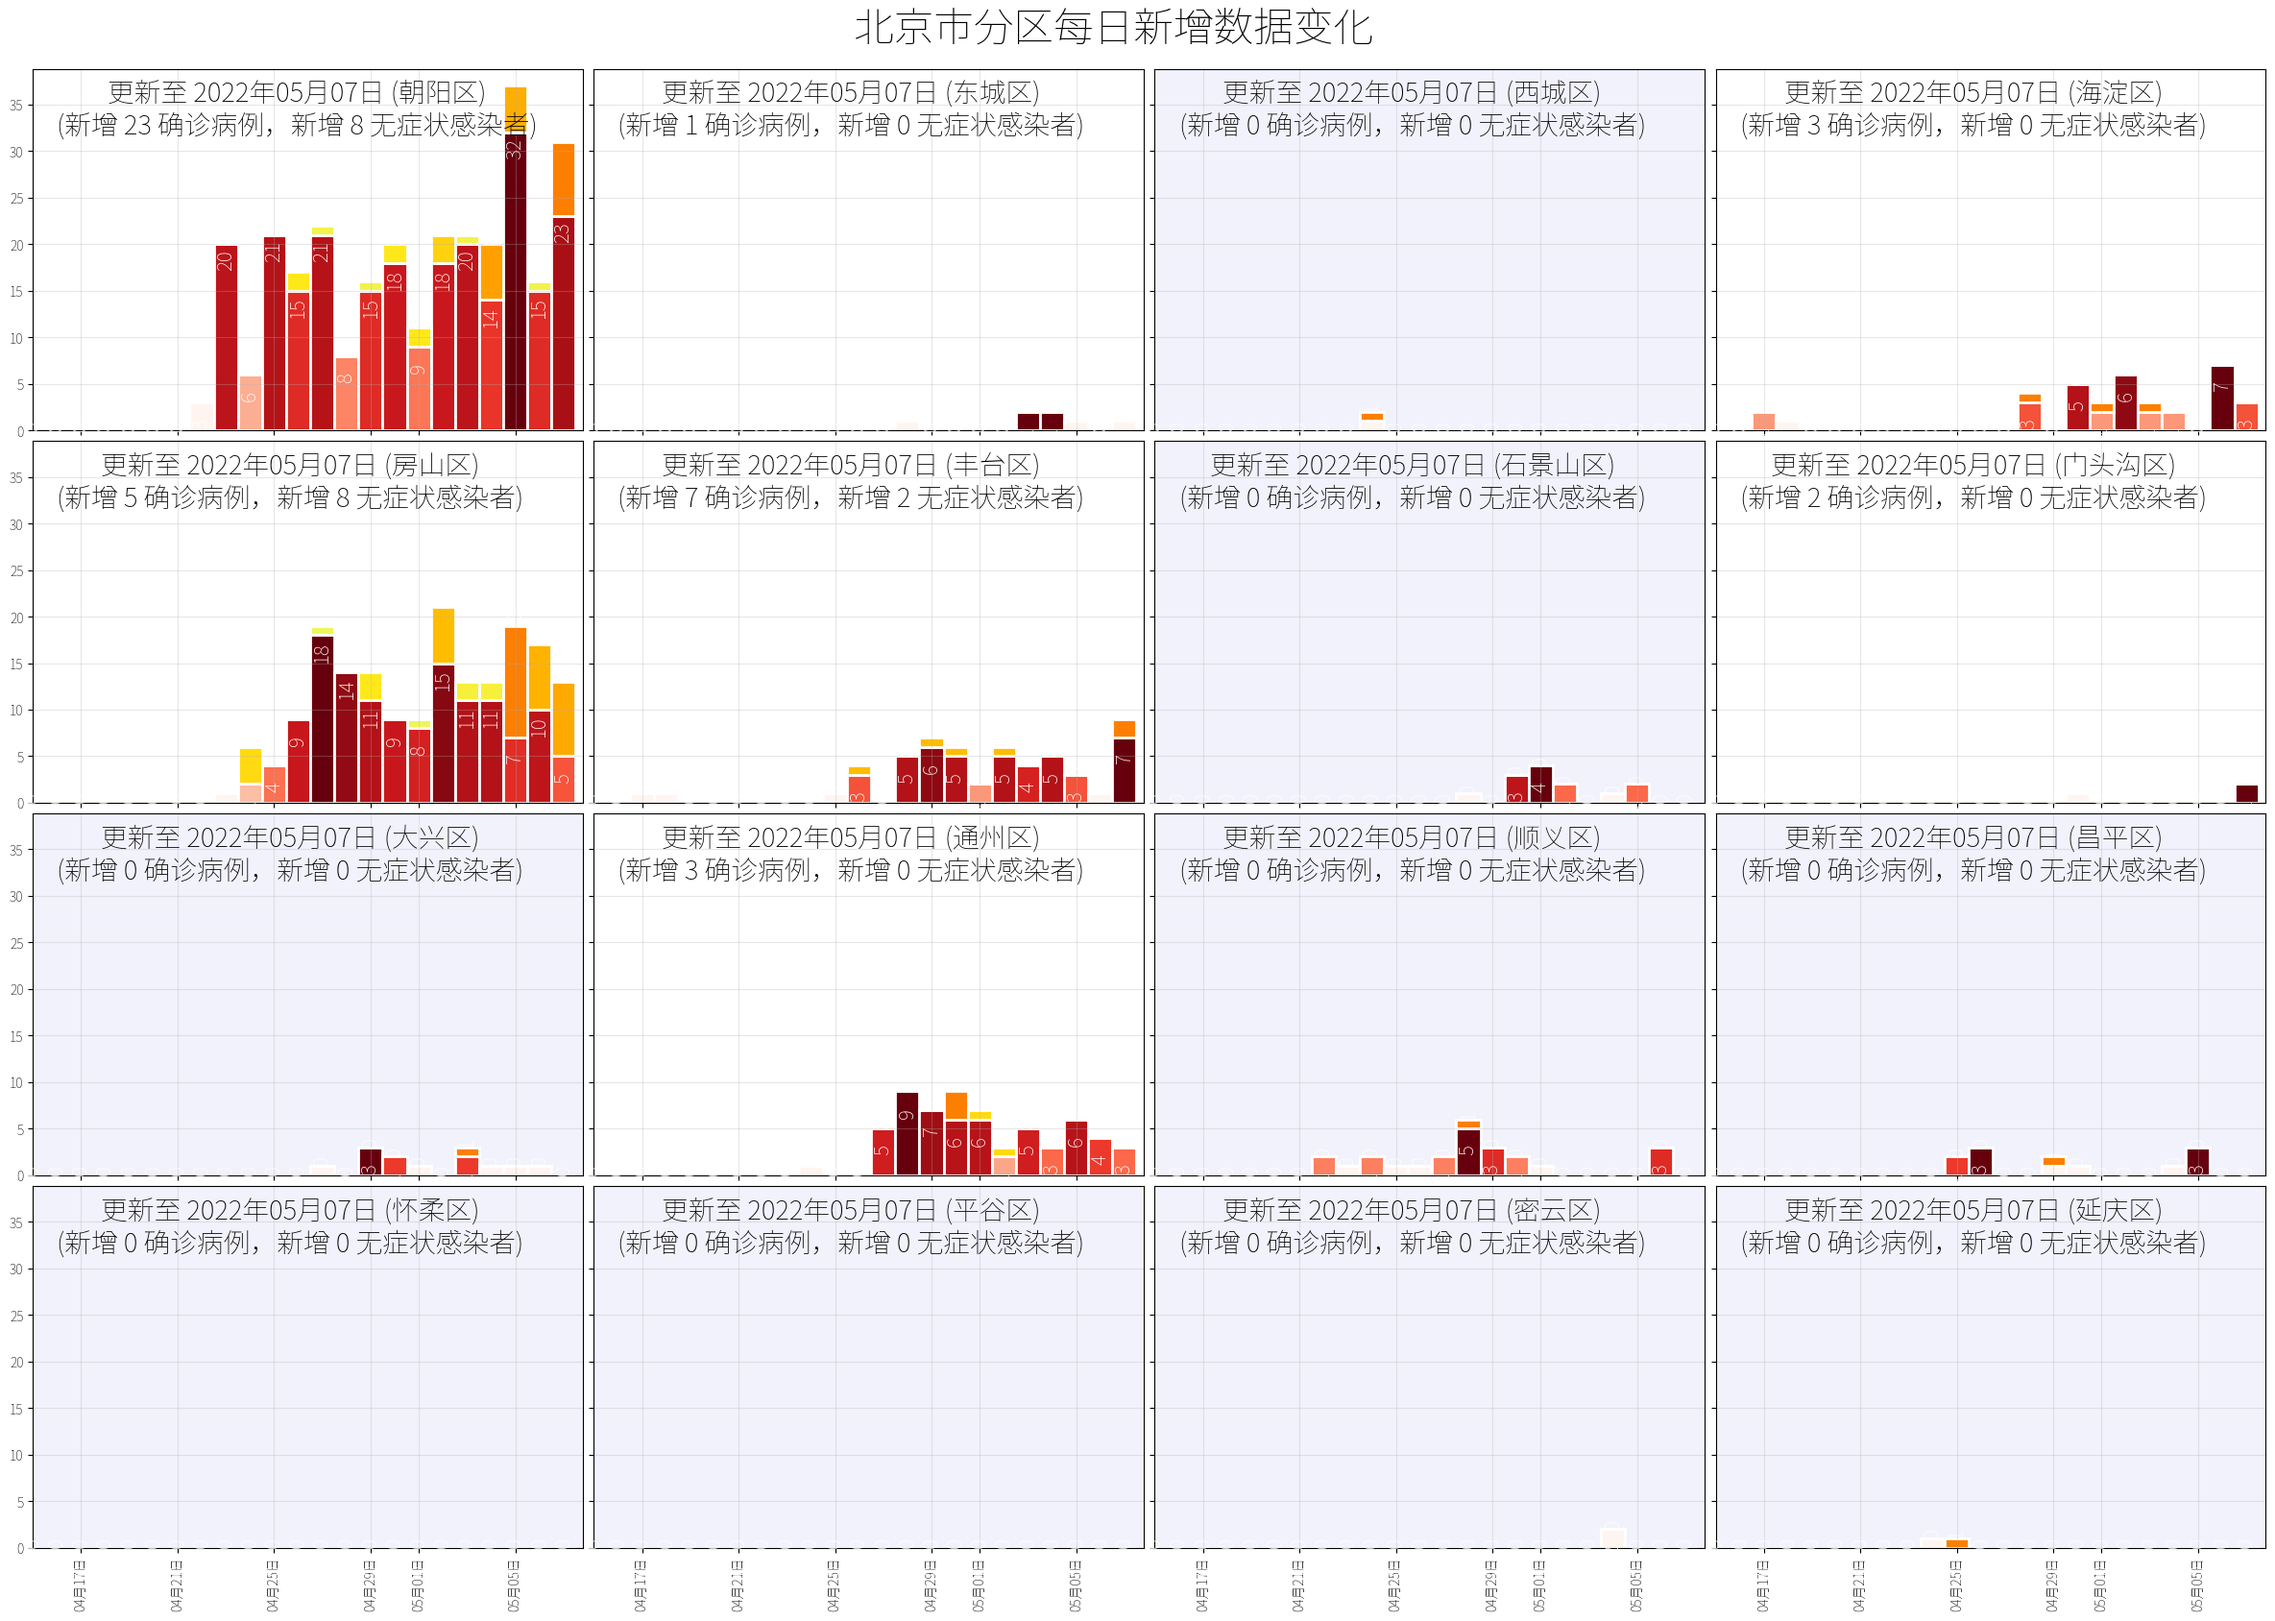
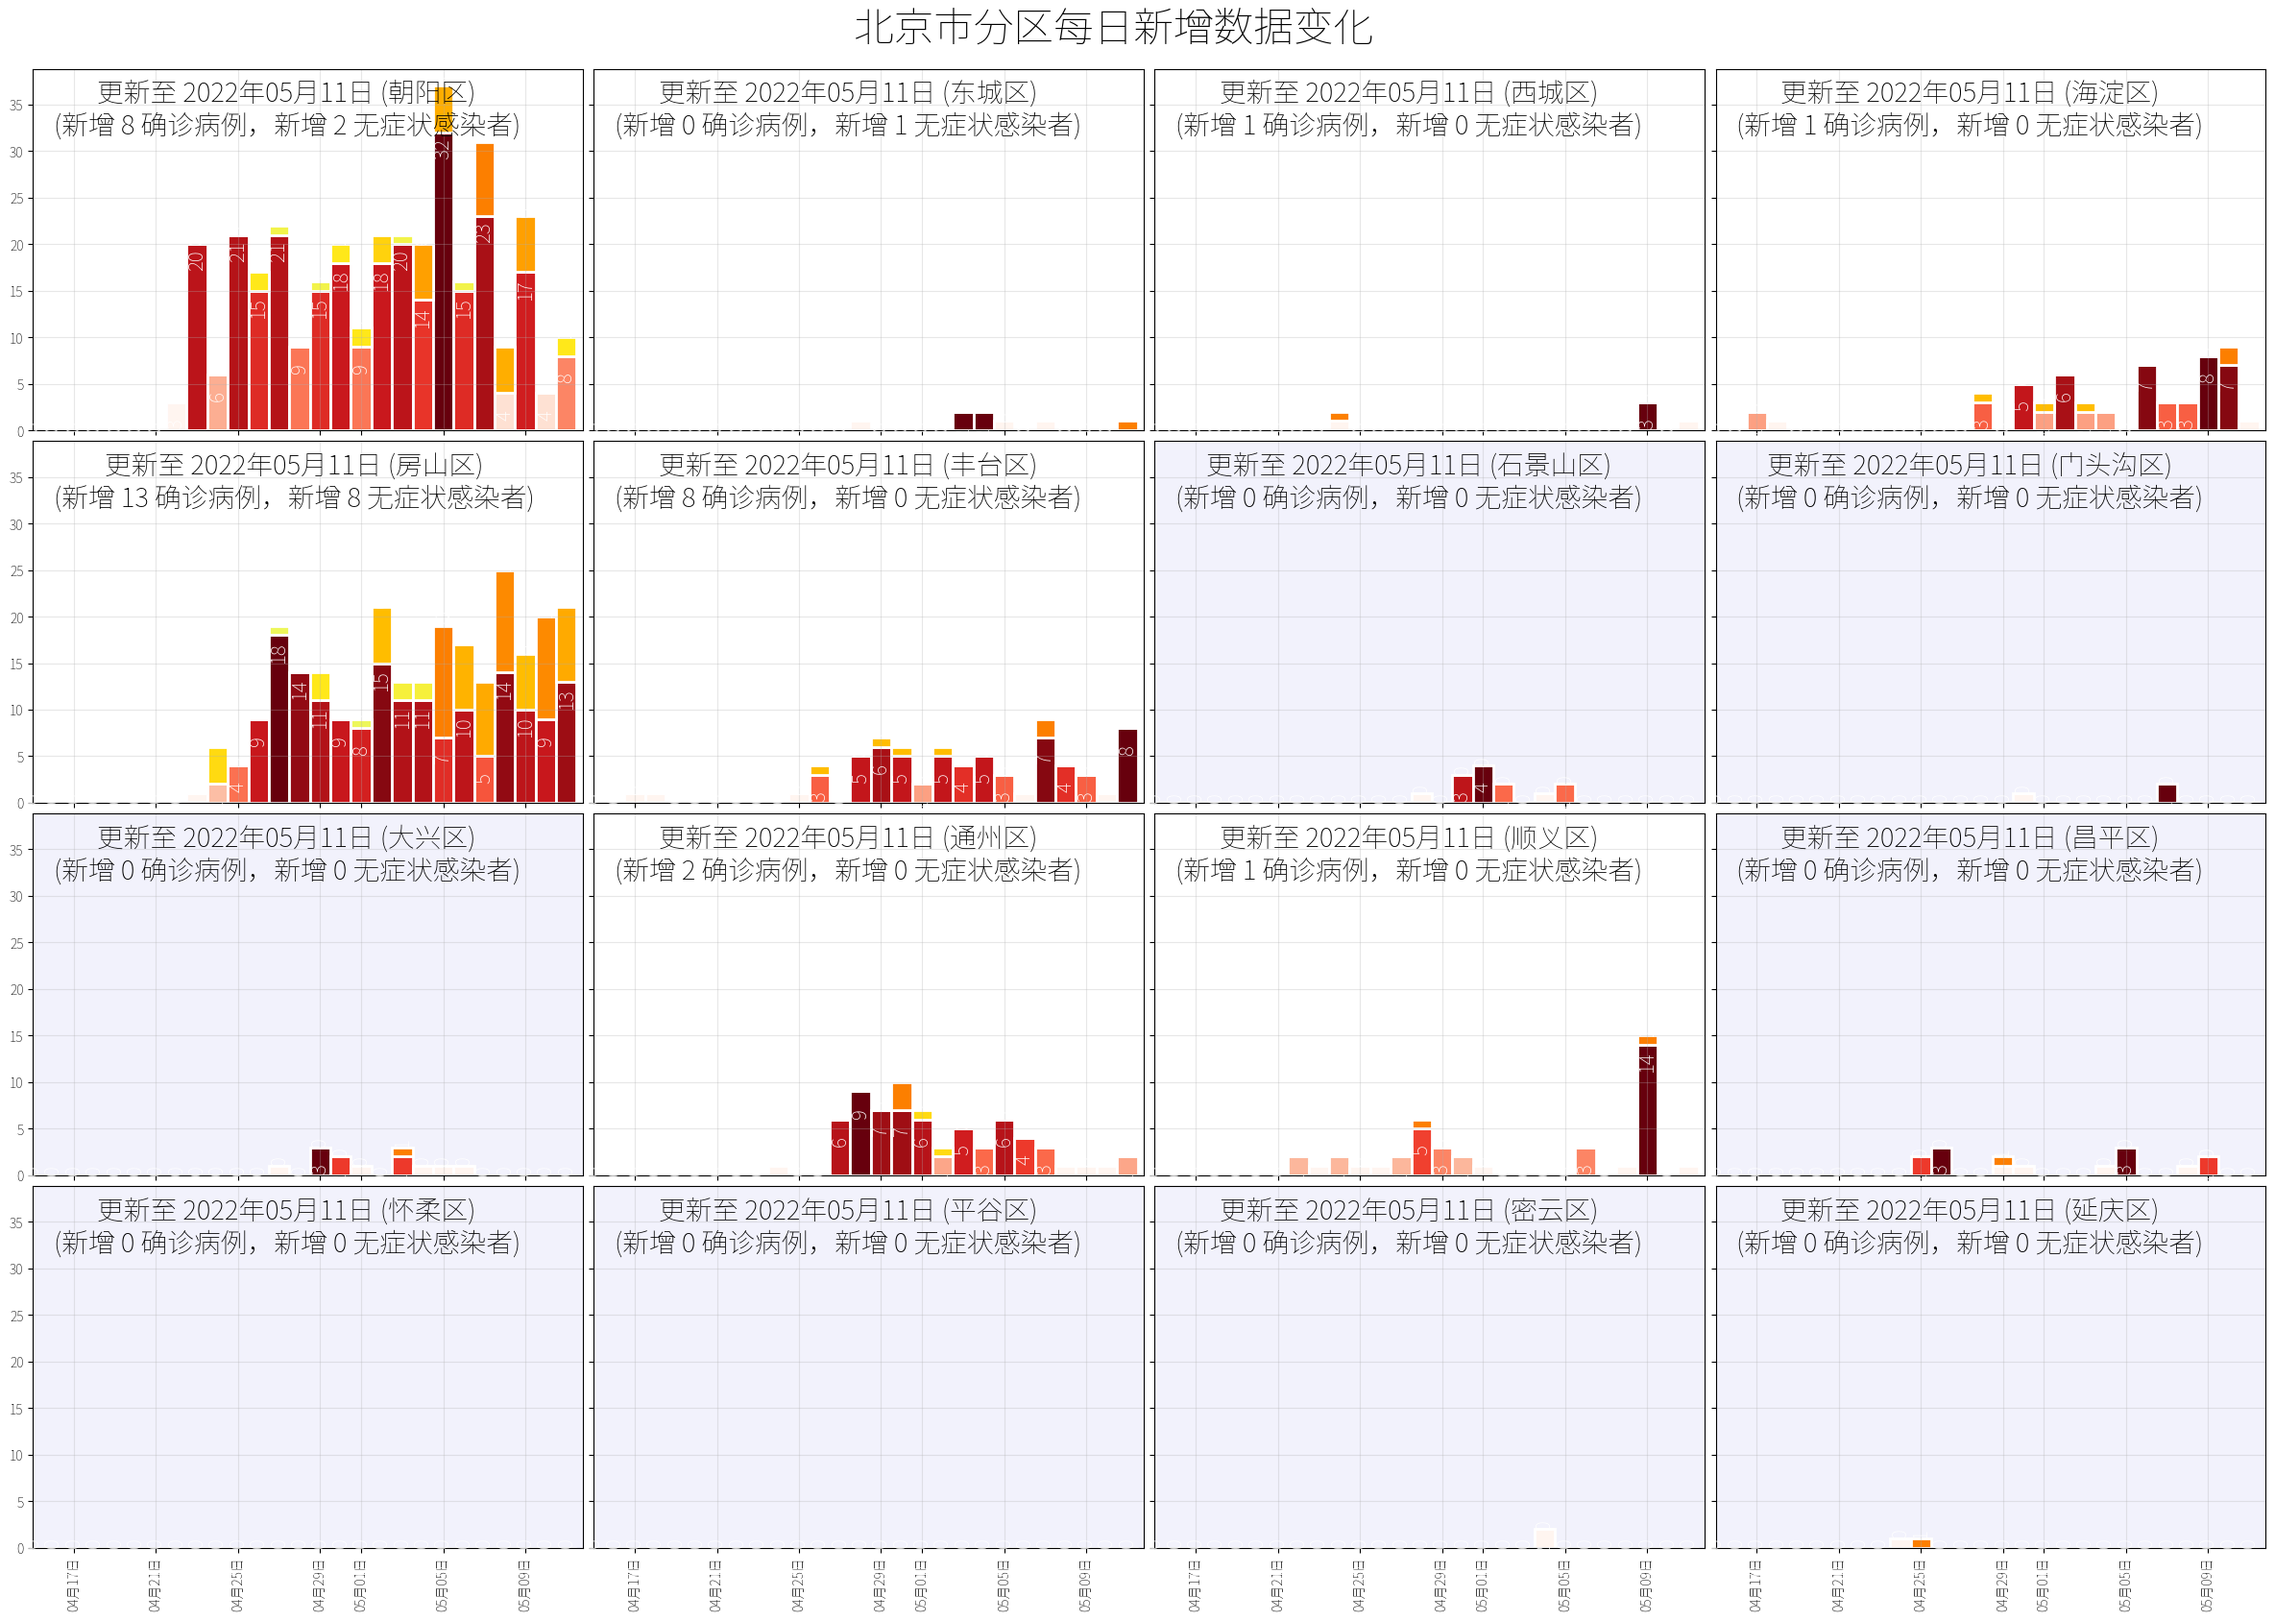
更新 analysis.py 并生成5月11日数据的图

diff --git a/analysis/analysis.py b/analysis/analysis.py
@@ -24,7 +24,7 @@ meta = {
         "name": "上海市",
         "name_pinyin": "shanghai",
         "file_daily": os.path.join(data_dir, "shanghai-daily.csv"),
-        "file_residents": os.path.join(data_dir, "shanghai-daily-residents.csv"),
+        "file_residents": os.path.join(data_dir, "shanghai-residents.csv"),
         "date_range": {"from": "2022-03-06", "to": "2022-06-01"},
         "districts": [
             "浦东新区", "徐汇区", "闵行区", "黄浦区", "嘉定区", "松江区", "虹口区", "长宁区",
@@ -39,13 +39,15 @@ meta = {
             {"from": "2022-04-09", "title": "全市抗原检测"},
             {"from": "2022-04-22", "title": "全员核酸检测"},
             {"from": "2022-04-26", "title": "全员核酸检测"},
+            {"from": "2022-04-29", "title": "第1次社会面清零"},
+            {"from": "2022-05-10", "title": "第2次社会面清零"},
         ]
     },
     "beijing": {
         "name": "北京市",
         "name_pinyin": "beijing",
         "file_daily": os.path.join(data_dir, "beijing-daily.csv"),
-        "file_residents": os.path.join(data_dir, "beijing-daily-residents.csv"),
+        "file_residents": os.path.join(data_dir, "beijing-residents.csv"),
         "date_range": {"from": "2022-04-15", "to": "2022-06-01"},
         "districts": [
             "朝阳区", "东城区", "西城区", "海淀区", "房山区", "丰台区", "石景山区", "门头沟区",
@@ -70,7 +72,7 @@ def draw_city(meta_city, df_daily):
     pathlib.Path(base_dir).mkdir(parents=True, exist_ok=True)
 
     # 画全局图
-    if max(df_daily['从风险人群中发现的本土病例']) > 0 and max(df_daily['重型']) > 0 and max(df_daily['本土确诊病例']) > 0:
+    if max(df_daily['从风险人群中发现的本土病例']) > 0 and max(df_daily['当前重症病例']) > 0 and max(df_daily['本土确诊病例']) > 0:
         fig, axes = plt.subplots(2, 2, figsize = (40,25), sharex=True)
 
         plt.suptitle('{}疫情每日新增数据变化'.format(meta_city['name']), y=0.90, fontsize=30, fontweight='bold', va='center')
@@ -78,8 +80,8 @@ def draw_city(meta_city, df_daily):
         draw_positive('{}全市'.format(meta_city['name']), df_daily['日期'], df_daily['本土确诊病例'], df_daily['本土无症状感染者'], events=meta_city['events'], show_legend=True, show_minor_label=True, ax=axes[0,0])
         draw_positive('{}社会面'.format(meta_city['name']), df_daily['日期'], df_daily['从风险人群中发现的本土病例'], df_daily['从风险人群中发现的无症状感染者'], show_minor_label=True, ax=axes[1,0])
 
-        draw_hospital('住院病例分析', df_daily['日期'], df_daily['本土确诊病例']+df_daily['本土无症状感染者'], df_daily['本土在院治疗'], df_daily['本土病例出院'], df_daily['解除医学观察'], ax=axes[0,1])
-        draw_critical('疫情重症分析', df_daily['日期'], df_daily['重型'], df_daily['危重型'], df_daily['本土死亡病例'], ax=axes[1,1])
+        draw_hospital('住院病例分析', df_daily['日期'], df_daily['本土确诊病例']+df_daily['本土无症状感染者'], df_daily['当前本土在院治疗'], df_daily['本土病例出院'], df_daily['解除医学观察'], ax=axes[0,1])
+        draw_critical('疫情重症分析', df_daily['日期'], df_daily['当前重症病例'], df_daily['当前危重症病例'], df_daily['本土死亡病例'], ax=axes[1,1])
 
         plt.subplots_adjust(wspace=0.03, hspace=0.03)
 
